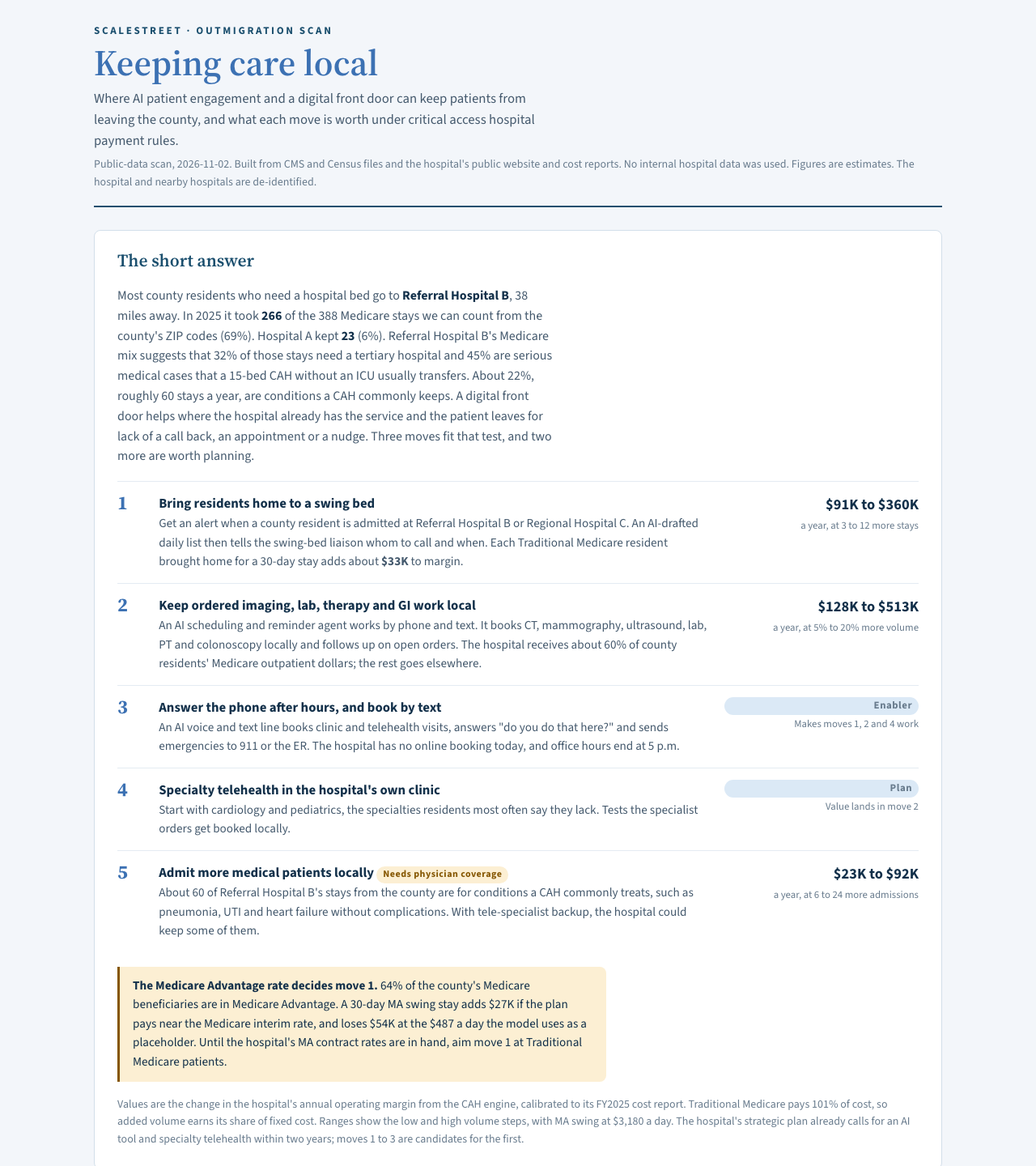
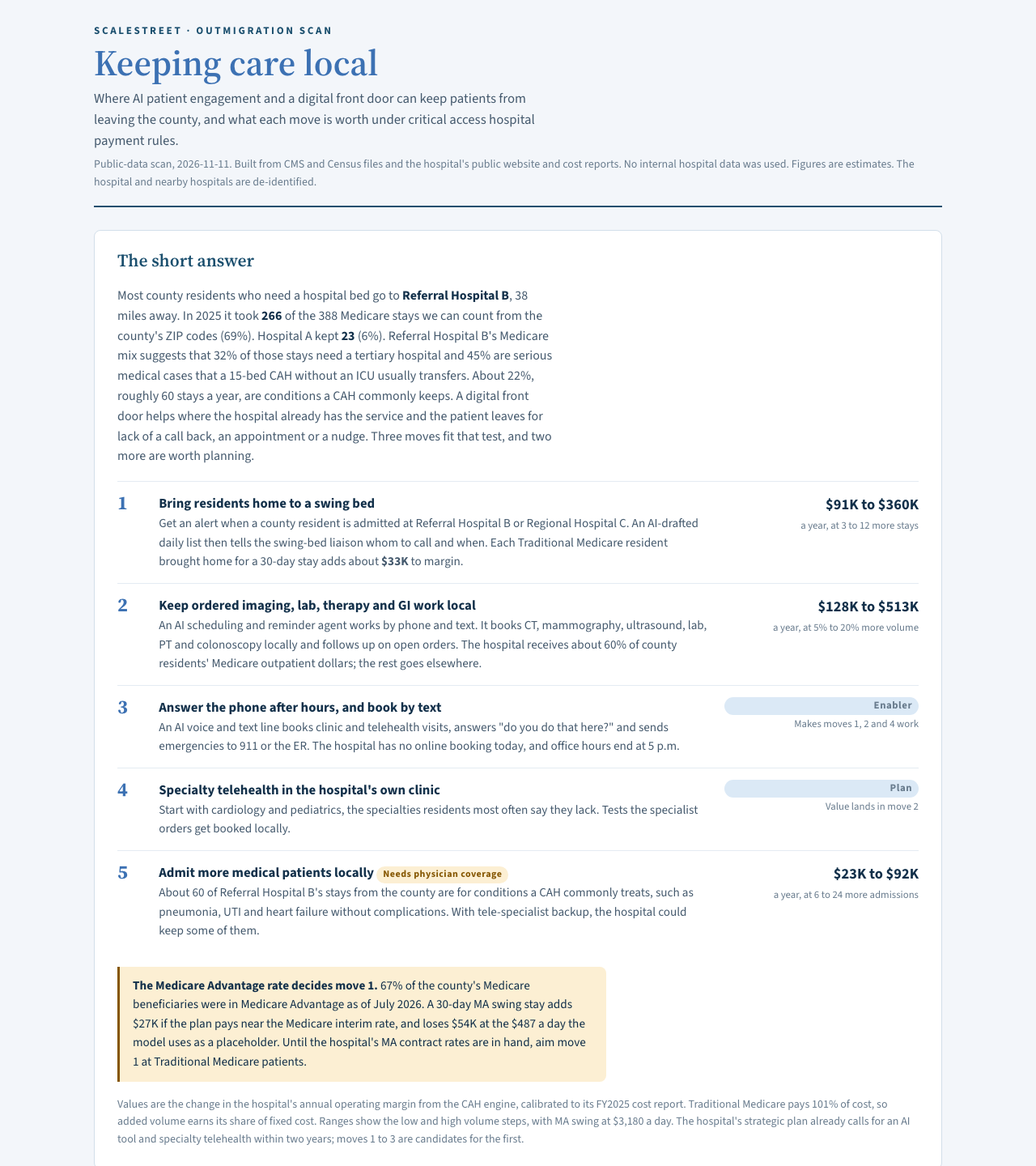
Use the newest Medicare Advantage share and telehealth quarter
The data pull now reads the county's latest monthly Medicare Advantage
share from CMS Medicare Monthly Enrollment (67% in July 2026, up from 64%
in the 2024 county file) and every published telehealth period. The
report compares the newest quarter with the same quarter a year earlier,
since a quarter's rate isn't comparable to a full year's. Sample report,
screenshots and README refreshed.

Changed region(s): [[0.125, 0.8438, 0.5625, 0.9375]]

diff --git a/docs/sample-report.html b/docs/sample-report.html
@@ -140,7 +140,7 @@ footer ul { margin: 0; padding-left: 1.1rem; display: grid; gap: 4px; }
     <div class="caps">ScaleStreet &middot; outmigration scan</div>
     <h1>Keeping care local</h1>
     <p class="dek">Where AI patient engagement and a digital front door can keep patients from leaving the county, and what each move is worth under critical access hospital payment rules.</p>
-    <p class="byline">Public-data scan, 2026-11-02. Built from CMS and Census files and the hospital's public website and cost reports. No internal hospital data was used. Figures are estimates. The hospital and nearby hospitals are de-identified.</p>
+    <p class="byline">Public-data scan, 2026-11-11. Built from CMS and Census files and the hospital's public website and cost reports. No internal hospital data was used. Figures are estimates. The hospital and nearby hospitals are de-identified.</p>
   </header>
 
   <section class="answer" aria-labelledby="a-h">
@@ -175,7 +175,7 @@ footer ul { margin: 0; padding-left: 1.1rem; display: grid; gap: 4px; }
         <div class="val"><b>$23K to $92K</b><span>a year, at 6 to 24 more admissions</span></div>
       </li>
     </ol>
-    <p class="callout"><b>The Medicare Advantage rate decides move 1.</b> 64% of the county's Medicare beneficiaries are in Medicare Advantage. A 30-day MA swing stay adds $27K if the plan pays near the Medicare interim rate, and loses $54K at the $487 a day the model uses as a placeholder. Until the hospital's MA contract rates are in hand, aim move 1 at Traditional Medicare patients.</p>
+    <p class="callout"><b>The Medicare Advantage rate decides move 1.</b> 67% of the county's Medicare beneficiaries were in Medicare Advantage as of July 2026. A 30-day MA swing stay adds $27K if the plan pays near the Medicare interim rate, and loses $54K at the $487 a day the model uses as a placeholder. Until the hospital's MA contract rates are in hand, aim move 1 at Traditional Medicare patients.</p>
     <p class="small muted">Values are the change in the hospital's annual operating margin from the CAH engine, calibrated to its FY2025 cost report. Traditional Medicare pays 101% of cost, so added volume earns its share of fixed cost. Ranges show the low and high volume steps, with MA swing at $3,180 a day. The hospital&#x27;s strategic plan already calls for an AI tool and specialty telehealth within two years; moves 1 to 3 are candidates for the first.</p>
   </section>
 
@@ -206,7 +206,7 @@ footer ul { margin: 0; padding-left: 1.1rem; display: grid; gap: 4px; }
     <div class="grid2">
       <div class="tablewrap"><table id="util"></table></div>
       <div class="prose">
-        <p>Medicare fee-for-service beneficiaries in the county, 2024: 511 of 1,407. The rest (64%) are in Medicare Advantage.</p>
+        <p>The county figures cover Medicare fee-for-service beneficiaries (511 in 2024). By July 2026, 67% of the county's 1,410 beneficiaries with Part A and B were in Medicare Advantage.</p>
         <p><b>Emergency and inpatient use run well above the state</b> (1.5 and 1.4 times per beneficiary), a sign of thin primary-care access. After-hours phone and text booking into the hospital's clinic is the front-door answer, and it keeps the primary-care relationship local.</p>
         <p><b>Skilled nursing days run 3.1 times the state's</b> per beneficiary.</p>
         <p><b>Outpatient dollars leak.</b> The hospital's FY2025 Medicare Part B settlement ($978K) equals about 60% of county residents' Medicare fee-for-service outpatient payments ($1.62M). That share is an upper bound, because the hospital also serves non-residents and cost-based payment runs above outpatient prospective rates. At least $646K a year in fee-for-service dollars alone goes to other hospitals.</p>
@@ -221,7 +221,7 @@ footer ul { margin: 0; padding-left: 1.1rem; display: grid; gap: 4px; }
       <div class="tablewrap"><table id="ready"></table></div>
       <div class="prose">
         <p>21% of county households have no internet (7% statewide). Among residents 65 and over, 71% have a computer and broadband (84% statewide), and 20% have no computer at all. The weakest ZIP is Town C, with 48% of households on broadband. 82% of households have a smartphone, and 13% get online only through a cellular plan.</p>
-        <p><b>Build voice and text first,</b> and treat the portal and online booking as a second channel. Rural Medicare beneficiaries in the state used telehealth at 15.7% in 2025 (19.8% urban), so specialty telehealth tends to work better as a visit in the hospital's own clinic room than as a video call from home.</p>
+        <p><b>Build voice and text first,</b> and treat the portal and online booking as a second channel. In the first quarter of 2026, 7.2% of the state's rural Medicare beneficiaries used telehealth (9.9% urban), down from 8.1% a year earlier. Specialty telehealth tends to work better as a visit in the hospital's own clinic room than as a video call from home.</p>
         <p class="small muted">Census ACS 2020–2024. Small ZIPs carry wide margins of error; read the county row for those.</p>
       </div>
     </div>
@@ -298,11 +298,11 @@ footer ul { margin: 0; padding-left: 1.1rem; display: grid; gap: 4px; }
   </section>
 
   <footer>
-    <p><b>Sources.</b> All public, pulled 2026-11-02. The workbook lists every figure with its source.</p>
+    <p><b>Sources.</b> All public, pulled 2026-11-11. The workbook lists every figure with its source.</p>
     <ul>
       <li>CMS Hospital Service Area File, CY2016–2025 (Medicare inpatient stays by home ZIP and hospital).</li>
       <li>CMS Medicare Inpatient Hospitals by Provider, and by Provider and Service, CY2024.</li>
-      <li>CMS Medicare Geographic Variation by county, 2024.</li>
+      <li>CMS Medicare Geographic Variation by county, 2024, and Medicare Monthly Enrollment, July 2026.</li>
       <li>CMS Provider of Services, Medicare Telehealth Trends, and Rural Health Clinic Enrollments.</li>
       <li>Census ACS 5-year 2020–2024 (B28001, B28002, B28005) and the 2024 ZCTA Gazetteer.</li>
       <li>The hospital's Medicare cost reports (HCRIS) and public website.</li>
@@ -312,7 +312,7 @@ footer ul { margin: 0; padding-left: 1.1rem; display: grid; gap: 4px; }
 <div class="tip" id="tip" hidden></div>
 
 <script>
-const F = {"dests":[{"label":"Referral Hospital B","place":"","miles":37.8,"cases":266,"days":1380,"small":1,"own":false},{"label":"Regional Hospital C","place":"","miles":26.5,"cases":60,"days":212,"small":3,"own":false},{"label":"Hospital A","place":"","miles":0,"cases":23,"days":73,"small":1,"own":true},{"label":"Tertiary Hospital D","place":"","miles":85.8,"cases":15,"days":94,"small":2,"own":false},{"label":"Regional Hospital E","place":"","miles":58.3,"cases":12,"days":35,"small":2,"own":false},{"label":"Regional Hospital F","place":"","miles":37.2,"cases":12,"days":48,"small":1,"own":false}],"trend":[{"year":2016,"d1":153,"d2":49,"own":103,"known":316,"small":55},{"year":2017,"d1":137,"d2":58,"own":82,"known":277,"small":57},{"year":2018,"d1":169,"d2":80,"own":79,"known":359,"small":52},{"year":2019,"d1":124,"d2":64,"own":72,"known":291,"small":55},{"year":2020,"d1":142,"d2":44,"own":64,"known":279,"small":55},{"year":2021,"d1":216,"d2":43,"own":43,"known":328,"small":51},{"year":2022,"d1":163,"d2":40,"own":38,"known":252,"small":59},{"year":2023,"d1":201,"d2":50,"own":19,"known":297,"small":47},{"year":2024,"d1":217,"d2":76,"own":12,"known":333,"small":50},{"year":2025,"d1":266,"d2":60,"own":23,"known":388,"small":55}],"names":{"d1":"Referral Hospital B","d2":"Regional Hospital C","own":"Hospital A"},"short":{"d1":"Hospital B","d2":"Hospital C","own":"Hospital A"},"util":[{"label":"Emergency visits per 1,000","rate":false,"county":872.7984,"state":563.9321},{"label":"Inpatient stays per 1,000","rate":false,"county":320.9393,"state":224.0577},{"label":"Hospital readmission rate","rate":true,"county":0.2067,"state":0.1833},{"label":"Skilled nursing days per 1,000","rate":false,"county":3211.3503,"state":1048.9409},{"label":"Office and clinic visits per 1,000","rate":false,"county":16682.9746,"state":15811.3612},{"label":"Imaging events per 1,000","rate":false,"county":4221.135,"state":4466.1662},{"label":"Tests per 1,000","rate":false,"county":6181.9961,"state":6544.482},{"label":"Surgery-center events per 1,000","rate":false,"county":101.7613,"state":286.7441}],"ready":[{"label":"Town A","age65_share":0.15871431423437812,"age65_broadband_share":0.6654088050314465,"age65_no_computer_share":0.22138364779874214,"hh_cellular_only_share":0.11732152739346983,"hh_no_internet_share":0.2197011621472053,"hh_smartphone_share":0.8118428334255673},{"label":"Town C","age65_share":0.21217391304347827,"age65_broadband_share":0.5409836065573771,"age65_no_computer_share":0.3360655737704918,"hh_cellular_only_share":0.14423076923076922,"hh_no_internet_share":0.16346153846153846,"hh_smartphone_share":0.8173076923076923},{"label":"Town B","age65_share":0.20238095238095238,"age65_broadband_share":1.0,"age65_no_computer_share":0.0,"hh_cellular_only_share":0.238562091503268,"hh_no_internet_share":0.1437908496732026,"hh_smartphone_share":0.8562091503267973},{"label":"Town D","age65_share":0.3058823529411765,"age65_broadband_share":0.9615384615384616,"age65_no_computer_share":0.038461538461538464,"hh_cellular_only_share":0.0,"hh_no_internet_share":0.12121212121212122,"hh_smartphone_share":0.9696969696969697},{"label":"County","age65_share":0.17882277671145233,"age65_broadband_share":0.7101967799642218,"age65_no_computer_share":0.19588550983899822,"hh_cellular_only_share":0.1272652388797364,"hh_no_internet_share":0.20881383855024713,"hh_smartphone_share":0.8241350906095551},{"label":"State","age65_share":0.14935504329020527,"age65_broadband_share":0.842537206402451,"age65_no_computer_share":0.08357920487304761,"hh_cellular_only_share":0.10720146398237174,"hh_no_internet_share":0.06606279357328232,"hh_smartphone_share":0.9213514446173957}],"levers":{"swing":{"counts":[3,6,12],"interim":[91179.60345705971,181508.2764967084,359843.49504026026],"placeholder":[4463.532446522266,8076.134475640953,12979.210998121649]},"acute":{"counts":[6,12,24],"interim":[23014.04883653298,45993.023819383234,91857.4532883279],"placeholder":[23014.04883653298,45993.023819383234,91857.4532883279]},"outpatient":{"pcts":[0.05,0.1,0.2],"interim":[127663.68263278529,255759.2383996956,513081.2550088316],"placeholder":[199778.77945503592,399989.4320441969,801541.6422978267],"charges":[285108.60000000003,570217.2000000001,1140434.4000000001],"by_line":{"05400":[81642.5721074529,163369.2192323208,327034.7395970337],"06000":[39165.988400645554,78577.93836669624,158038.62795865536],"06600":[4783.146569292992,9638.478758882731,19546.622874714434],"06700":[-21.456875327974558,-13.262819651514292,87.53485552221537],"05000":[2093.43243072927,4186.86486145854,8373.72972290963]},"lines":{"05400":"Radiology","06000":"Laboratory","06600":"Physical therapy","06700":"Occupational therapy","05000":"GI endoscopy (OR cost center)"}}},"geo_year":2024};
+const F = {"dests":[{"label":"Referral Hospital B","place":"","miles":37.8,"cases":266,"days":1380,"small":1,"own":false},{"label":"Regional Hospital C","place":"","miles":26.5,"cases":60,"days":212,"small":3,"own":false},{"label":"Hospital A","place":"","miles":0,"cases":23,"days":73,"small":1,"own":true},{"label":"Tertiary Hospital D","place":"","miles":85.8,"cases":15,"days":94,"small":2,"own":false},{"label":"Regional Hospital E","place":"","miles":58.3,"cases":12,"days":35,"small":2,"own":false},{"label":"Regional Hospital F","place":"","miles":37.2,"cases":12,"days":48,"small":1,"own":false}],"trend":[{"year":2016,"d1":153,"d2":49,"own":103,"known":316,"small":55},{"year":2017,"d1":137,"d2":58,"own":82,"known":277,"small":57},{"year":2018,"d1":169,"d2":80,"own":79,"known":359,"small":52},{"year":2019,"d1":124,"d2":64,"own":72,"known":291,"small":55},{"year":2020,"d1":142,"d2":44,"own":64,"known":279,"small":55},{"year":2021,"d1":216,"d2":43,"own":43,"known":328,"small":51},{"year":2022,"d1":163,"d2":40,"own":38,"known":252,"small":59},{"year":2023,"d1":201,"d2":50,"own":19,"known":297,"small":47},{"year":2024,"d1":217,"d2":76,"own":12,"known":333,"small":50},{"year":2025,"d1":266,"d2":60,"own":23,"known":388,"small":55}],"names":{"d1":"Referral Hospital B","d2":"Regional Hospital C","own":"Hospital A"},"short":{"d1":"Hospital B","d2":"Hospital C","own":"Hospital A"},"util":[{"label":"Emergency visits per 1,000","rate":false,"county":872.7984,"state":563.9321},{"label":"Inpatient stays per 1,000","rate":false,"county":320.9393,"state":224.0577},{"label":"Hospital readmission rate","rate":true,"county":0.2067,"state":0.1833},{"label":"Skilled nursing days per 1,000","rate":false,"county":3211.3503,"state":1048.9409},{"label":"Office and clinic visits per 1,000","rate":false,"county":16682.9746,"state":15811.3612},{"label":"Imaging events per 1,000","rate":false,"county":4221.135,"state":4466.1662},{"label":"Tests per 1,000","rate":false,"county":6181.9961,"state":6544.482},{"label":"Surgery-center events per 1,000","rate":false,"county":101.7613,"state":286.7441}],"ready":[{"label":"Town A","age65_share":0.15871431423437812,"age65_broadband_share":0.6654088050314465,"age65_no_computer_share":0.22138364779874214,"hh_cellular_only_share":0.11732152739346983,"hh_no_internet_share":0.2197011621472053,"hh_smartphone_share":0.8118428334255673},{"label":"Town B","age65_share":0.20238095238095238,"age65_broadband_share":1.0,"age65_no_computer_share":0.0,"hh_cellular_only_share":0.238562091503268,"hh_no_internet_share":0.1437908496732026,"hh_smartphone_share":0.8562091503267973},{"label":"Town C","age65_share":0.21217391304347827,"age65_broadband_share":0.5409836065573771,"age65_no_computer_share":0.3360655737704918,"hh_cellular_only_share":0.14423076923076922,"hh_no_internet_share":0.16346153846153846,"hh_smartphone_share":0.8173076923076923},{"label":"Town D","age65_share":0.3058823529411765,"age65_broadband_share":0.9615384615384616,"age65_no_computer_share":0.038461538461538464,"hh_cellular_only_share":0.0,"hh_no_internet_share":0.12121212121212122,"hh_smartphone_share":0.9696969696969697},{"label":"County","age65_share":0.17882277671145233,"age65_broadband_share":0.7101967799642218,"age65_no_computer_share":0.19588550983899822,"hh_cellular_only_share":0.1272652388797364,"hh_no_internet_share":0.20881383855024713,"hh_smartphone_share":0.8241350906095551},{"label":"State","age65_share":0.14935504329020527,"age65_broadband_share":0.842537206402451,"age65_no_computer_share":0.08357920487304761,"hh_cellular_only_share":0.10720146398237174,"hh_no_internet_share":0.06606279357328232,"hh_smartphone_share":0.9213514446173957}],"levers":{"swing":{"counts":[3,6,12],"interim":[91179.60345705971,181508.2764967084,359843.49504026026],"placeholder":[4463.532446522266,8076.134475640953,12979.210998121649]},"acute":{"counts":[6,12,24],"interim":[23014.04883653298,45993.023819383234,91857.4532883279],"placeholder":[23014.04883653298,45993.023819383234,91857.4532883279]},"outpatient":{"pcts":[0.05,0.1,0.2],"interim":[127663.68263278529,255759.2383996956,513081.2550088316],"placeholder":[199778.77945503592,399989.4320441969,801541.6422978267],"charges":[285108.60000000003,570217.2000000001,1140434.4000000001],"by_line":{"05400":[81642.5721074529,163369.2192323208,327034.7395970337],"06000":[39165.988400645554,78577.93836669624,158038.62795865536],"06600":[4783.146569292992,9638.478758882731,19546.622874714434],"06700":[-21.456875327974558,-13.262819651514292,87.53485552221537],"05000":[2093.43243072927,4186.86486145854,8373.72972290963]},"lines":{"05400":"Radiology","06000":"Laboratory","06600":"Physical therapy","06700":"Occupational therapy","05000":"GI endoscopy (OR cost center)"}}},"geo_year":2024};
 const NS = 'http://www.w3.org/2000/svg';
 const fmt$ = (x) => (x < 0 ? '−' : '') + '$' + (Math.abs(x) >= 1e6 ? (Math.abs(x) / 1e6).toFixed(2) + 'M' : Math.abs(x) >= 1e4 ? Math.round(Math.abs(x) / 1e3) + 'K' : Math.round(Math.abs(x)).toLocaleString('en-US'));
 const pct = (x, d = 0) => (100 * x).toFixed(d) + '%';

diff --git a/analysis/report.template.html b/analysis/report.template.html
@@ -167,7 +167,7 @@ footer ul { margin: 0; padding-left: 1.1rem; display: grid; gap: 4px; }
         <div class="val"><b>{{acute_interim_lo}} to {{acute_interim_hi}}</b><span>a year, at {{acute_n0}} to {{acute_n2}} more admissions</span></div>
       </li>
     </ol>
-    <p class="callout"><b>The Medicare Advantage rate decides move 1.</b> {{ma_share}} of the county's Medicare beneficiaries are in Medicare Advantage. A {{swing_los}}-day MA swing stay adds {{ma_stay_interim}} if the plan pays near the Medicare interim rate, and {{ma_stay_placeholder_phrase}} at the $487 a day the model uses as a placeholder. Until the hospital's MA contract rates are in hand, aim move 1 at Traditional Medicare patients.</p>
+    <p class="callout"><b>The Medicare Advantage rate decides move 1.</b> {{ma_share}} of the county's Medicare beneficiaries were in Medicare Advantage as of {{ma_month}}. A {{swing_los}}-day MA swing stay adds {{ma_stay_interim}} if the plan pays near the Medicare interim rate, and {{ma_stay_placeholder_phrase}} at the $487 a day the model uses as a placeholder. Until the hospital's MA contract rates are in hand, aim move 1 at Traditional Medicare patients.</p>
     <p class="small muted">Values are the change in the hospital's annual operating margin from the CAH engine, calibrated to its {{fy}} cost report. Traditional Medicare pays 101% of cost, so added volume earns its share of fixed cost. Ranges show the low and high volume steps, with MA swing at $3,180 a day. {{plan_note}}</p>
   </section>
 
@@ -198,7 +198,7 @@ footer ul { margin: 0; padding-left: 1.1rem; display: grid; gap: 4px; }
     <div class="grid2">
       <div class="tablewrap"><table id="util"></table></div>
       <div class="prose">
-        <p>Medicare fee-for-service beneficiaries in the county, {{geo_year}}: {{ffs_benes}} of {{ab_benes}}. The rest ({{ma_share}}) are in Medicare Advantage.</p>
+        <p>The county figures cover Medicare fee-for-service beneficiaries ({{ffs_benes}} in {{geo_year}}). By {{ma_month}}, {{ma_share}} of the county's {{ab_benes}} beneficiaries with Part A and B were in Medicare Advantage.</p>
         {{util_paragraphs}}
         <p><b>Outpatient dollars leak.</b> The hospital's {{fy}} Medicare Part B settlement ({{own_partb}}) equals about {{op_capture}} of county residents' Medicare fee-for-service outpatient payments ({{county_op}}). That share is an upper bound, because the hospital also serves non-residents and cost-based payment runs above outpatient prospective rates. At least {{op_elsewhere}} a year in fee-for-service dollars alone goes to other hospitals.</p>
         <p>{{swing_paragraph}}</p>
@@ -212,7 +212,7 @@ footer ul { margin: 0; padding-left: 1.1rem; display: grid; gap: 4px; }
       <div class="tablewrap"><table id="ready"></table></div>
       <div class="prose">
         <p>{{hh_no_net}} of county households have no internet ({{hh_no_net_state}} statewide). Among residents 65 and over, {{bb65}} have a computer and broadband ({{bb65_state}} statewide), and {{nocomp65}} have no computer at all. The weakest ZIP is {{weak_zip}}, with {{weak_zip_bb}} of households on broadband. {{phone}} of households have a smartphone, and {{cell_only}} get online only through a cellular plan.</p>
-        <p>{{channel_advice}} Rural Medicare beneficiaries in the state used telehealth at {{tele_rural}} in {{tele_year}} ({{tele_urban}} urban), so specialty telehealth tends to work better as a visit in the hospital's own clinic room than as a video call from home.</p>
+        <p>{{channel_advice}} In {{tele_period}}, {{tele_rural}} of the state's rural Medicare beneficiaries used telehealth ({{tele_urban}} urban){{tele_change}}. Specialty telehealth tends to work better as a visit in the hospital's own clinic room than as a video call from home.</p>
         <p class="small muted">Census ACS 2020–2024. Small ZIPs carry wide margins of error; read the county row for those.</p>
       </div>
     </div>
@@ -293,7 +293,7 @@ footer ul { margin: 0; padding-left: 1.1rem; display: grid; gap: 4px; }
     <ul>
       <li>CMS Hospital Service Area File, CY{{first_year}}–{{hsaf_year}} (Medicare inpatient stays by home ZIP and hospital).</li>
       <li>CMS Medicare Inpatient Hospitals by Provider, and by Provider and Service, CY2024.</li>
-      <li>CMS Medicare Geographic Variation by county, {{geo_year}}.</li>
+      <li>CMS Medicare Geographic Variation by county, {{geo_year}}, and Medicare Monthly Enrollment, {{ma_month}}.</li>
       <li>CMS Provider of Services, Medicare Telehealth Trends, and Rural Health Clinic Enrollments.</li>
       <li>Census ACS 5-year 2020–2024 (B28001, B28002, B28005) and the 2024 ZCTA Gazetteer.</li>
       <li>The hospital's Medicare cost reports (HCRIS) and public website.</li>

diff --git a/analysis/build_report.py b/analysis/build_report.py
@@ -59,6 +59,26 @@ def money(x, unit=True):
 def pct(x, d=0):
     return f"{100 * x:.{d}f}%"
 
+def telehealth_latest(rows):
+    """CMS's newest telehealth period for the state: a full year when the newest year has one, else its latest quarter,
+    with the same period a year earlier (a quarter's rate is far below a full year's, so only like periods compare)."""
+    y = max(t["year"] for t in rows)
+    get = lambda yr, q, ruca: next((t["pct"] for t in rows if t["year"] == yr and t["quarter"] == q and t["ruca"] == ruca), None)
+    if get(y, "Overall", "Rural") is not None:
+        q, label = "Overall", str(y)
+    else:
+        q = max(t["quarter"] for t in rows if t["year"] == y and t["quarter"] != "Overall")
+        label = f"the {dict(zip('1234', ('first', 'second', 'third', 'fourth')))[q]} quarter of {y}"
+    return {"label": label, "year": y, "quarter": q, "rural": get(y, q, "Rural"), "urban": get(y, q, "Urban"), "rural_prior": get(y - 1, q, "Rural")}
+
+
+def tele_change(t):
+    if t["rural_prior"] is None:
+        return ""
+    word = "down from" if t["rural"] < t["rural_prior"] else "up from" if t["rural"] > t["rural_prior"] else "the same as"
+    return f", {word} {100 * t['rural_prior']:.1f}% a year earlier"
+
+
 
 def esc(s):
     return html.escape(str(s), quote=True)
@@ -178,8 +198,8 @@ def build_facts(cfg):
     icu = ((om["providers"].get(ccn) or {}).get("services") or {}).get("ICU")
 
     acs = om["acs"]
-    tele = {(t["year"], t["ruca"]): t["pct"] for t in om["telehealth"]}
-    tele_year = max(y for y, _ in tele)
+    tele = telehealth_latest(om["telehealth"])
+    mam = om["ma_monthly"]
     cases = val["cases"]
     I, Pl = cases["interim"], cases["placeholder"]
     lev = lambda c, k: [x["margin"] for x in c["levers"][k]]
@@ -193,7 +213,8 @@ def build_facts(cfg):
         "own_cases": own["cases"], "own_share": own["cases"] / known if known else 0, "d1_share": agg[d1]["cases"] / known if known else 0,
         "trend": trend,
         "tm_acute_first": tm_acute[min(tm_acute)], "tm_acute_last": tm_acute[max(tm_acute)], "tm_acute_first_fy": "FY" + min(tm_acute),
-        "ma_share": f(cg, "MA_PRTCPTN_RATE"), "ffs_benes": int(f(cg, "BENES_OM_CNT")), "ab_benes": int(f(cg, "BENES_WTH_PTAPTB_CNT")), "geo_year": cg["year"],
+        "ma_share": mam["ma_share"], "ma_month": f"{mam['month']} {mam['year']}", "ab_benes": mam["ab_total"],
+        "ma_share_geo": f(cg, "MA_PRTCPTN_RATE"), "ffs_benes": int(f(cg, "BENES_OM_CNT")), "geo_year": cg["year"],
         "hsaf_ratio": sum(c["ratio"] for c in om["hsaf_ma_check"] if c["ratio"]) / max(1, sum(1 for c in om["hsaf_ma_check"] if c["ratio"])),
         "drg_rows": [{"drg": r["drg"], "desc": r["desc"], "discharges": r["discharges"], "tier": tier(r["drg"])} for r in drg],
         "drg_total": drg_tot, "tier_a": tiers["A"] / drg_tot, "tier_b": tiers["B"] / drg_tot, "tier_c": tiers["C"] / drg_tot,
@@ -201,7 +222,7 @@ def build_facts(cfg):
         "util": util,
         "county_op": county_op, "own_partb": own_partb, "op_capture": own_partb / county_op if county_op else 0, "op_elsewhere": max(0, county_op - own_partb),
         "county_snf": county_snf, "own_swing": own_swing, "swing_ratio": own_swing / county_snf if county_snf else 0,
-        "acs": acs, "tele_rural": tele.get((tele_year, "Rural")), "tele_urban": tele.get((tele_year, "Urban")), "tele_year": tele_year,
+        "acs": acs, "tele": tele, "tele_rural": tele["rural"], "tele_urban": tele["urban"], "tele_year": tele["label"],
         "rhcs": om["rhcs"], "rhc_radius": cfg.get("rhc_radius_miles", 45),
         "swing_los": los, "acute_los": val["inputs"]["acuteLOS"], "swing_tm_share": val["inputs"]["swingTMShare"], "acute_tm_share": val["inputs"]["acuteTMShare"],
         "per_day": {k: {"interim": I["perDay"][k]["margin"], "placeholder": Pl["perDay"][k]["margin"]} for k in I["perDay"]},
@@ -292,7 +313,8 @@ def tokens(F):
         "weak_zip": esc(L.zip(weak)), "weak_zip_bb": pct(a["zcta"][weak]["hh_broadband_share"]),
         "channel_advice": ("<b>Build voice and text first,</b> and treat the portal and online booking as a second channel." if voice_first
                            else "<b>Online booking and the portal can lead,</b> with voice and text as backup for older residents."),
-        "tele_rural": pct(F["tele_rural"] or 0, 1), "tele_urban": pct(F["tele_urban"] or 0, 1), "tele_year": str(F["tele_year"]),
+        "tele_rural": pct(F["tele_rural"] or 0, 1), "tele_urban": pct(F["tele_urban"] or 0, 1), "tele_period": F["tele_year"], "tele_change": tele_change(F["tele"]),
+        "ma_month": F["ma_month"],
         "front_door_items": items(cfg.get("front_door", []), "<li><span>Not checked</span><span>No website audit in this run.</span></li>"),
         "community_items": items(cfg.get("community", []), ""),
         "capacity_items": "".join(f"<li>{esc(c.format(tier_c=pct(F['tier_c'])))}</li>" for c in cfg.get("capacity_gaps", DEFAULT_CAPACITY)),
@@ -469,7 +491,7 @@ def build_workbook(F, path):
     # County use vs state
     ws = sheet(wb, "County use vs state", [40, 14, 14, 14, 16])
     put(ws, 1, 1, f"Medicare fee-for-service use, the county vs {st} and the US, {F['geo_year']}", TITLE)
-    put(ws, 2, 1, f"Source: CMS Medicare Geographic Variation by National, State & County, {API.format(S['geovar'])}. Fee-for-service beneficiaries only ({F['ffs_benes']:,}; {pct(F['ma_share'], 1)} of Part A+B beneficiaries are in Medicare Advantage).", NOTE)
+    put(ws, 2, 1, f"Source: CMS Medicare Geographic Variation by National, State & County, {API.format(S['geovar'])}. Fee-for-service beneficiaries only ({F['ffs_benes']:,}; {pct(F['ma_share_geo'], 1)} of Part A+B beneficiaries were in Medicare Advantage in {F['geo_year']}, and {pct(F['ma_share'], 1)} by {F['ma_month']} per CMS Medicare Monthly Enrollment, {API.format(S['monthly_enrollment'])}).", NOTE)
     header(ws, 4, ["Measure", "County", "State", "US", "County vs state"])
     for i, u in enumerate(F["util"]):
         r = 5 + i

diff --git a/pipeline/outmigration.py b/pipeline/outmigration.py
@@ -44,6 +44,8 @@ IP_DRG_ID = "690ddc6c-2767-4618-b277-420ffb2bf27c"       # Medicare Inpatient Ho
 GEOVAR_ID = "6219697b-8f6c-4164-bed4-cd9317c58ebc"       # Medicare Geographic Variation by National, State & County
 TELEHEALTH_ID = "939226be-b107-476e-8777-f199a840138a"   # Medicare Telehealth Trends
 RHC_ID = "3b7e7659-067e-41ea-8e36-f9ee2036e1f6"          # Rural Health Clinic Enrollments, 2026-10-01
+ENROLLMENT_ID = "d7fabe1e-d19b-4333-9eff-e80e0643f2fd"   # Medicare Monthly Enrollment (newest Medicare Advantage share)
+MONTHS = ["January", "February", "March", "April", "May", "June", "July", "August", "September", "October", "November", "December"]
 
 GAZETTEER = "https://www2.census.gov/geo/docs/maps-data/data/gazetteer/2024_Gazetteer/2024_Gaz_zcta_national.zip"
 ACS = "https://www2.census.gov/programs-surveys/acs/summary_file/2024/table-based-SF/data/5YRData/acsdt5y2024-{}.dat"
@@ -170,11 +172,19 @@ def fetch_geovar(state, fips):
 
 
 def fetch_telehealth(state_name):
-    rows = get_all(TELEHEALTH_ID, {"filter[Bene_Geo_Desc]": state_name, "filter[Quarter]": "Overall",
-                                   "filter[Bene_Age_Desc]": "All", "filter[Bene_Race_Desc]": "All", "filter[Bene_Sex_Desc]": "All",
-                                   "filter[Bene_Mdcd_Mdcr_Enrl_Stus]": "All", "filter[Bene_Mdcr_Entlmt_Stus]": "All"})
-    return [{"year": int(r["Year"]), "ruca": r["Bene_RUCA_Desc"], "pct": float(r["Pct_Telehealth"])}
+    """Every published period for the state: full years ("Overall") and quarters ("1" to "4")."""
+    rows = get_all(TELEHEALTH_ID, {"filter[Bene_Geo_Desc]": state_name, "filter[Bene_Age_Desc]": "All", "filter[Bene_Race_Desc]": "All",
+                                   "filter[Bene_Sex_Desc]": "All", "filter[Bene_Mdcd_Mdcr_Enrl_Stus]": "All", "filter[Bene_Mdcr_Entlmt_Stus]": "All"})
+    return [{"year": int(r["Year"]), "quarter": r["Quarter"], "ruca": r["Bene_RUCA_Desc"], "pct": float(r["Pct_Telehealth"])}
             for r in rows if r["Pct_Telehealth"] not in ("", None)]
+
+
+def fetch_ma_monthly(fips):
+    """The county's newest monthly Medicare Advantage share: MA enrollees over beneficiaries with Part A and B (KFF basis)."""
+    rows = [r for r in get_all(ENROLLMENT_ID, {"filter[BENE_FIPS_CD]": fips}) if r["MONTH"] in MONTHS and float(r["A_B_TOT_BENES"] or 0)]
+    r = max(rows, key=lambda r: (int(r["YEAR"]), MONTHS.index(r["MONTH"])))
+    ab, ma = float(r["A_B_TOT_BENES"]), float(r["A_B_MA_AND_OTH_BENES"] or 0)
+    return {"year": int(r["YEAR"]), "month": r["MONTH"], "ab_total": int(ab), "ab_ma": int(ma), "ma_share": ma / ab}
 
 
 def load_gazetteer():
@@ -270,6 +280,7 @@ def main(config_path):
             p["miles"] = round(miles(origin, gaz[p["zip"]]), 1)
     rhcs = fetch_rhcs(state, origin, gaz, cfg.get("rhc_radius_miles", 45))
     geovar = fetch_geovar(state, fips)
+    ma_monthly = fetch_ma_monthly(fips)
     tele = fetch_telehealth(STATE_NAMES.get(state, state))
 
     print("ACS (streams ~190 MB) ...")
@@ -280,12 +291,12 @@ def main(config_path):
         "pulled": date.today().isoformat(), "ccn": ccn, "zips": list(zips), "county_fips": fips, "state": state,
         "sources": {
             "hsaf": {str(y): i for y, i in HSAF_IDS.items()}, "pos": POS_ID, "ip_drg_cy2024": IP_DRG_ID, "geovar": GEOVAR_ID,
-            "telehealth": TELEHEALTH_ID, "rhc": RHC_ID, "ip_provider_cy2024": IP_PROVIDER_ID, "gazetteer": GAZETTEER,
+            "telehealth": TELEHEALTH_ID, "rhc": RHC_ID, "monthly_enrollment": ENROLLMENT_ID, "ip_provider_cy2024": IP_PROVIDER_ID, "gazetteer": GAZETTEER,
             "acs_5yr_2024": [ACS.format(t) for t in ACS_TABLES],
         },
         "hsaf": {str(y): rows for y, rows in hsaf.items()},
         "hsaf_own_origin": {str(y): rows for y, rows in own.items()}, "hsaf_ma_check": ma_check,
-        "providers": providers, "drg_mix_cy2024": drg, "geovar": geovar, "telehealth": tele, "rhcs": rhcs,
+        "providers": providers, "drg_mix_cy2024": drg, "geovar": geovar, "telehealth": tele, "rhcs": rhcs, "ma_monthly": ma_monthly,
         "acs": {"zcta": {z: acs[f"860Z200US{z}"] for z in zips}, "county": acs[f"0500000US{fips}"],
                 "state": acs[f"0400000US{fips[:2]}"], "us": acs["0100000US"]},
     }

diff --git a/README.md b/README.md
@@ -16,7 +16,7 @@ This project answers that question for a rural hospital using **public data only
 A rural hospital CEO asked a simple question: *where can AI keep patients from leaving the county?* Most answers to that question are vendor pitches. This one starts from where patients actually go and what the hospital can actually provide. It then prices each move the way a CAH is really paid:
 
 - **Traditional Medicare pays a CAH 101% of its costs.** Added Medicare volume pays a share of fixed costs the hospital carries anyway, so its value is not "charges times volume."
-- **Medicare Advantage pays a contract rate.** In the sample county, 64% of beneficiaries are in Medicare Advantage. At a nursing-home-level MA rate, bringing an MA patient home to a swing bed *loses* about $54K per stay. At a rate near the Medicare interim rate, it *adds* about $27K. The MA contract decides whether the top move pays.
+- **Medicare Advantage pays a contract rate.** In the sample county, 67% of beneficiaries were in Medicare Advantage as of July 2026. At a nursing-home-level MA rate, bringing an MA patient home to a swing bed *loses* about $54K per stay. At a rate near the Medicare interim rate, it *adds* about $27K. The MA contract decides whether the top move pays.
 - **More outpatient volume lowers the cost-to-charge ratio.** That trims what Medicare pays for inpatient ancillaries. The engine counts this second-order effect.
 
 ## What the sample found
@@ -60,7 +60,7 @@ flowchart LR
 
 | Step | What it does |
 |---|---|
-| `pipeline/outmigration.py` | Pulls 11 years of CMS service-area data for the hospital's ZIP codes, plus destination hospitals' DRG mix, county Medicare utilization, rural health clinics, telehealth use and Census broadband tables. It streams the Census summary files and filters them on the fly, since the Census API now needs a key. |
+| `pipeline/outmigration.py` | Pulls 11 years of CMS service-area data for the hospital's ZIP codes, plus destination hospitals' DRG mix, county Medicare utilization, the newest monthly Medicare Advantage share, rural health clinics, quarterly telehealth use and Census broadband tables. It streams the Census summary files and filters them on the fly, since the Census API now needs a key. |
 | `pipeline/hcris.py` | Decodes CMS cost-report bulk files for every CAH into the record the engine uses: days by payer, departmental costs and charges, and Medicare settlement worksheets. |
 | `engine/engine.js` | A deterministic restatement of the CAH cost report (D-1 per diem, C Pt I ancillaries, E-2/E-3/E Pt B settlements), with costs split into fixed and variable parts so volume and payer mix can move. |
 | `analysis/outmigration_value.js` | Values each lever as a change in operating margin at three volume steps and two MA rate cases. |
@@ -115,7 +115,7 @@ python3 analysis/build_report.py config.json
 
 ## Data sources
 
-All public: CMS Hospital Service Area File (CY2015–2025); Medicare Inpatient Hospitals by Provider, and by Provider and Service; Medicare Geographic Variation by county; Provider of Services; Rural Health Clinic Enrollments; Medicare Telehealth Trends; HCRIS cost reports (Form 2552-10); Census ACS 5-year 2020–2024 (tables B28001, B28002, B28005); Census 2024 ZCTA Gazetteer.
+All public: CMS Hospital Service Area File (CY2015–2025); Medicare Inpatient Hospitals by Provider, and by Provider and Service; Medicare Geographic Variation by county; Medicare Monthly Enrollment (newest Medicare Advantage share); Provider of Services; Rural Health Clinic Enrollments; Medicare Telehealth Trends; HCRIS cost reports (Form 2552-10); Census ACS 5-year 2020–2024 (tables B28001, B28002, B28005); Census 2024 ZCTA Gazetteer.
 
 ## Limitations
 
